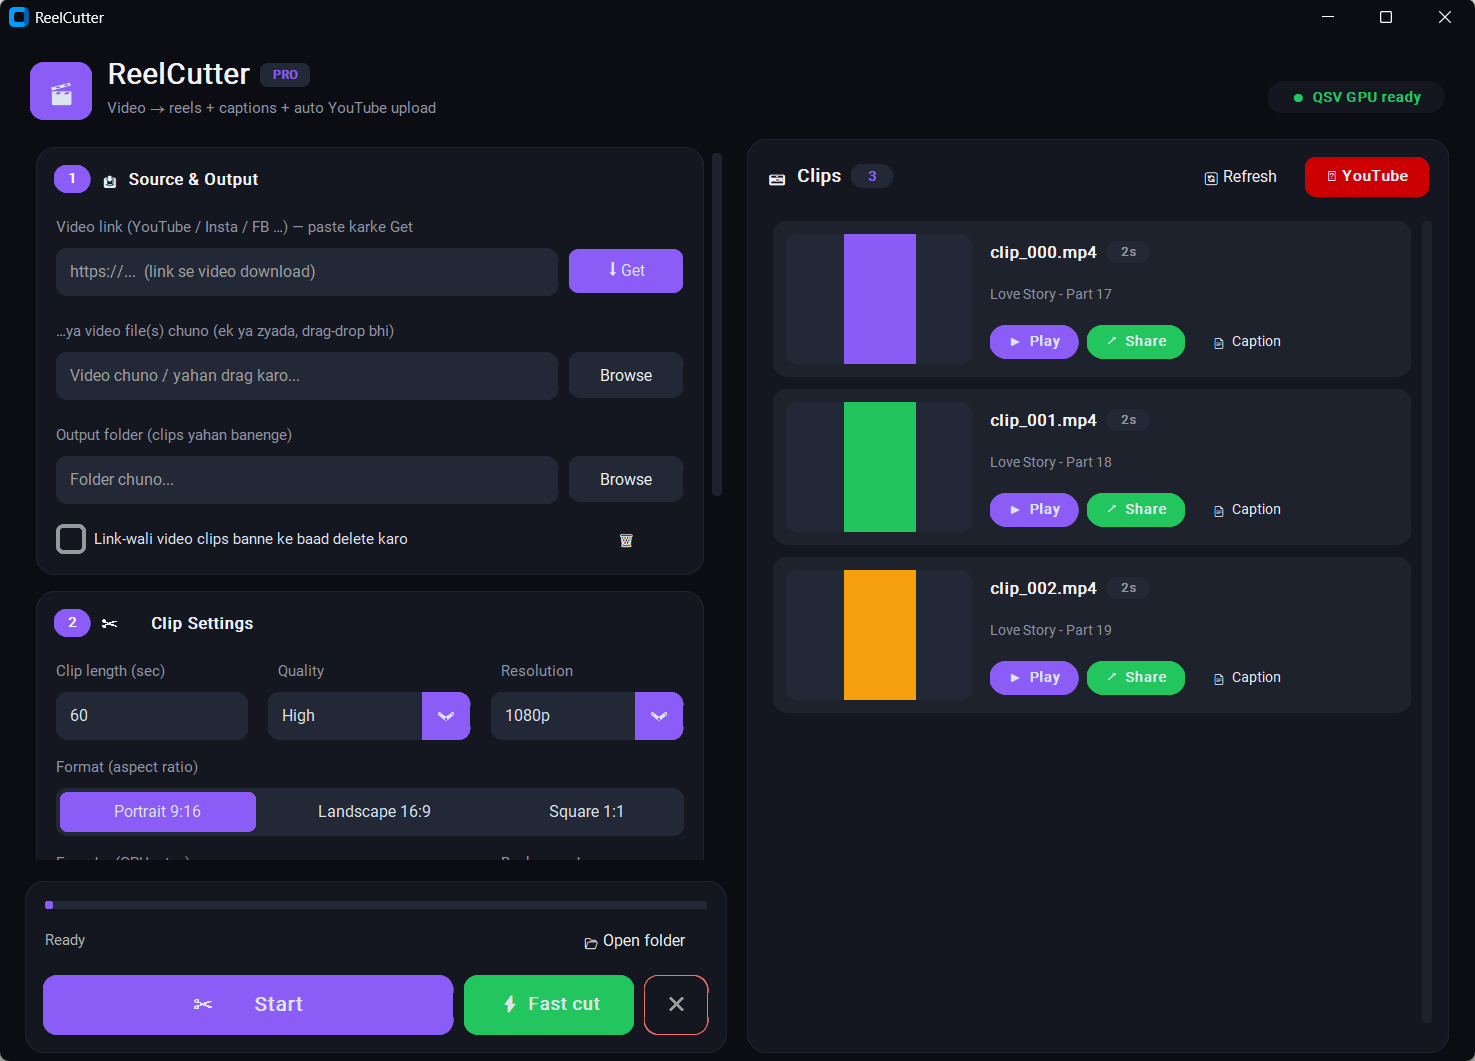
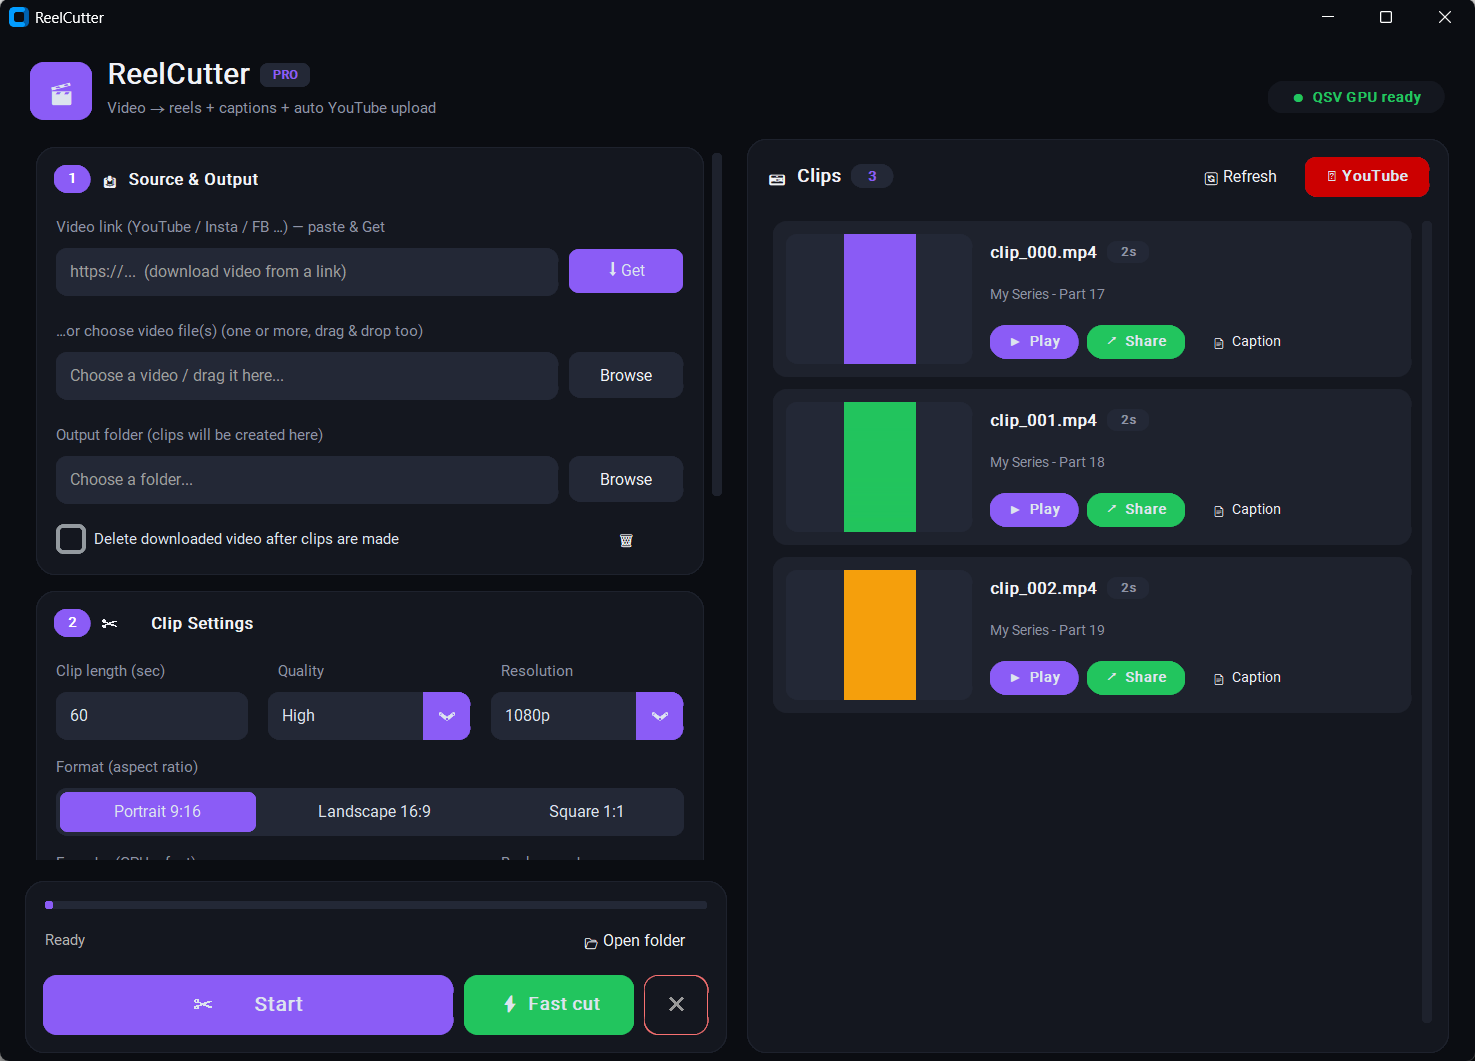
Full English UI: app rebuild + website rewrite

diff --git a/index.html b/index.html
@@ -1,10 +1,10 @@
 <!DOCTYPE html>
-<html lang="hi">
+<html lang="en">
 <head>
 <meta charset="UTF-8">
 <meta name="viewport" content="width=device-width, initial-scale=1.0">
-<title>ReelCutter — Lambi video se ready Reels & Shorts, ek click me</title>
-<meta name="description" content="ReelCutter: lambi video ko auto 9:16 Reels/Shorts me kaato, captions + Part numbering + logo watermark lagao, aur seedha YouTube pe schedule karo. Free Windows app.">
+<title>ReelCutter — Turn long videos into ready Reels & Shorts, in one click</title>
+<meta name="description" content="ReelCutter: automatically cut long videos into 9:16 Reels/Shorts, add captions + Part numbering + logo watermark, and schedule them straight to YouTube. Free Windows app.">
 <link rel="icon" type="image/png" href="assets/logo.png">
 <style>
   :root{
@@ -37,7 +37,7 @@
   .hero img.logo{width:84px;height:84px;border-radius:20px;margin-bottom:22px;box-shadow:0 12px 40px rgba(139,92,246,.35)}
   h1{font-size:clamp(1.9rem,4.5vw,3.1rem);line-height:1.2;font-weight:800}
   h1 span{color:var(--accent)}
-  .sub{color:var(--muted);font-size:1.1rem;max-width:640px;margin:18px auto 30px}
+  .sub{color:var(--muted);font-size:1.1rem;max-width:660px;margin:18px auto 30px}
   .dl-row{display:flex;gap:14px;justify-content:center;flex-wrap:wrap;margin-bottom:12px}
   .meta{color:var(--muted);font-size:.85rem}
   .meta b{color:var(--green)}
@@ -94,7 +94,7 @@
     <div class="brand">ReelCutter<small>PRO</small></div>
     <div class="nav-links">
       <a href="#features" class="hideS">Features</a>
-      <a href="#how" class="hideS">Kaise use karein</a>
+      <a href="#how" class="hideS">How it works</a>
       <a href="#req" class="hideS">Requirements</a>
       <a href="#faq" class="hideS">FAQ</a>
       <a href="#download" class="btn">⬇ Download</a>
@@ -104,42 +104,42 @@
 
 <header class="hero wrap">
   <img class="logo" src="assets/logo.png" alt="ReelCutter">
-  <h1>Lambi video se <span>ready Reels & Shorts</span><br>— ek click me</h1>
-  <p class="sub">Video ya link daalo → auto 9:16 clips + captions + "Part 1, 2, 3…" series numbering + logo watermark → aur seedha <b style="color:var(--text)">YouTube Shorts pe schedule</b>. Sab kuch ek hi app me.</p>
+  <h1>Turn long videos into <span>ready Reels & Shorts</span><br>— in one click</h1>
+  <p class="sub">Drop a video or paste a link → get auto-cut 9:16 clips with captions, "Part 1, 2, 3…" series numbering and your logo watermark → then <b style="color:var(--text)">schedule them straight to YouTube Shorts</b>. All in one app.</p>
   <div class="dl-row">
     <a class="btn big" href="ReelCutter_Setup.exe" download>⬇ Download Setup &nbsp;·&nbsp; 60 MB</a>
     <a class="btn big ghost" href="ReelCutter.exe" download>Portable .exe</a>
   </div>
-  <p class="meta">Windows 10/11 (64-bit) &nbsp;•&nbsp; <b>100% Free</b> &nbsp;•&nbsp; koi account nahi chahiye</p>
-  <div class="shot"><img src="assets/screenshot.png" alt="ReelCutter app screenshot — clips gallery aur settings"></div>
+  <p class="meta">Windows 10/11 (64-bit) &nbsp;•&nbsp; <b>100% Free</b> &nbsp;•&nbsp; no account needed</p>
+  <div class="shot"><img src="assets/screenshot.png" alt="ReelCutter app screenshot — clips gallery and settings"></div>
 </header>
 
 <section id="features">
   <div class="wrap">
-    <h2>Sab kuch jo ek reel-factory ko chahiye 🏭</h2>
-    <p class="sec-sub">Kaatne se le kar upload tak — pura pipeline automatic.</p>
+    <h2>Everything a reel factory needs 🏭</h2>
+    <p class="sec-sub">From cutting to uploading — the whole pipeline, automated.</p>
     <div class="grid">
-      <div class="card"><div class="ico">✂️</div><h3>Auto cutting</h3><p>Lambi video fixed-length clips me. 9:16, 16:9, 1:1 — blur/black/crop background ke saath.</p></div>
-      <div class="card"><div class="ico">🔢</div><h3>Part series numbering</h3><p>Har clip pe "Title Part 17, 18, 19…" auto. Pichla part number daalo, series wahi se continue.</p></div>
-      <div class="card"><div class="ico">📝</div><h3>Ready captions</h3><p>Har clip ka caption .txt — title + rotating CTA. Bas copy-paste karke post karo.</p></div>
-      <div class="card"><div class="ico">🏷️</div><h3>Logo watermark + text</h3><p>Apna logo aur custom text har clip pe — drag karke position, size % se adjust.</p></div>
-      <div class="card"><div class="ico">⚡</div><h3>GPU speed + Fast cut</h3><p>NVIDIA/Intel/AMD hardware encoding auto-detect. Fast-cut mode me seconds me clips.</p></div>
-      <div class="card"><div class="ico">🔗</div><h3>Link se video</h3><p>YouTube/Insta/FB link paste karo — app khud download karke clips bana degi.</p></div>
-      <div class="card"><div class="ico">📅</div><h3>YouTube auto-upload</h3><p>Saare clips ek click me YouTube Shorts pe — roz ek auto-publish hone wala schedule.</p></div>
-      <div class="card"><div class="ico">📱</div><h3>Phone pe share (QR)</h3><p>QR scan karo, clip phone pe — wahan se Instagram/WhatsApp pe native share.</p></div>
+      <div class="card"><div class="ico">✂️</div><h3>Auto cutting</h3><p>Slice long videos into fixed-length clips. 9:16, 16:9 or 1:1 with blur/black/crop backgrounds.</p></div>
+      <div class="card"><div class="ico">🔢</div><h3>Part series numbering</h3><p>"Title Part 17, 18, 19…" burned onto every clip automatically. Enter the last part number and the series continues.</p></div>
+      <div class="card"><div class="ico">📝</div><h3>Ready captions</h3><p>A caption .txt for every clip — title + rotating call-to-action. Just copy, paste and post.</p></div>
+      <div class="card"><div class="ico">🏷️</div><h3>Logo watermark + text</h3><p>Your logo and custom text on every clip — drag to position, resize by %.</p></div>
+      <div class="card"><div class="ico">⚡</div><h3>GPU speed + Fast cut</h3><p>Auto-detects NVIDIA/Intel/AMD hardware encoding. Fast-cut mode slices in seconds.</p></div>
+      <div class="card"><div class="ico">🔗</div><h3>Cut from a link</h3><p>Paste a YouTube/Insta/FB link — the app downloads the video and cuts it for you.</p></div>
+      <div class="card"><div class="ico">📅</div><h3>YouTube auto-upload</h3><p>Push all clips to YouTube Shorts in one click — scheduled to publish one per day.</p></div>
+      <div class="card"><div class="ico">📱</div><h3>Share to phone (QR)</h3><p>Scan a QR, the clip lands on your phone — share natively to Instagram/WhatsApp.</p></div>
     </div>
   </div>
 </section>
 
 <section id="how">
   <div class="wrap">
-    <h2>4 steps — bas itna hi</h2>
-    <p class="sec-sub">Pehli baar setup ke baad rozana sirf 1 minute ka kaam.</p>
+    <h2>4 steps — that's it</h2>
+    <p class="sec-sub">After a one-time setup, it's a one-minute job every day.</p>
     <div class="steps">
-      <div class="step"><h3>Install karo</h3><p>Setup download karke Next-Next-Install. Desktop shortcut ban jayega.</p></div>
-      <div class="step"><h3>ffmpeg daalo</h3><p>ffmpeg.exe + ffprobe.exe ReelCutter ke install folder me copy kar do (neeche link hai). Ek hi baar.</p></div>
-      <div class="step"><h3>Video/link + Start</h3><p>Video chuno ya link paste karo, title likho, Start dabao — clips + captions ready.</p></div>
-      <div class="step"><h3>Upload/Share</h3><p>⬆ YouTube se schedule karo, ya QR se phone pe le ke Insta pe daalo. Done!</p></div>
+      <div class="step"><h3>Install</h3><p>Download the setup and click Next-Next-Install. A desktop shortcut appears.</p></div>
+      <div class="step"><h3>Add ffmpeg</h3><p>Copy ffmpeg.exe + ffprobe.exe into the ReelCutter install folder (link below). One time only.</p></div>
+      <div class="step"><h3>Pick a video & Start</h3><p>Choose a video or paste a link, type a title, press Start — clips + captions are ready.</p></div>
+      <div class="step"><h3>Upload / Share</h3><p>Schedule everything to YouTube with ⬆, or send clips to your phone via QR. Done!</p></div>
     </div>
   </div>
 </section>
@@ -147,13 +147,13 @@
 <section id="req">
   <div class="wrap">
     <h2>Requirements</h2>
-    <p class="sec-sub">Seedha-saadha — bas ek cheez chahiye.</p>
+    <p class="sec-sub">Simple — only one thing is mandatory.</p>
     <div class="box">
       <ul>
-        <li><b>Windows 10/11</b> (64-bit) <span class="tag">ZAROORI</span></li>
-        <li><b>ffmpeg</b> — <a href="https://www.gyan.dev/ffmpeg/builds/" target="_blank" rel="noopener">yahan se download</a> karke <code>ffmpeg.exe</code> + <code>ffprobe.exe</code> install folder me daal do:<br><code style="color:var(--accent)">C:\Users\&lt;naam&gt;\AppData\Local\Programs\ReelCutter</code> <span class="tag">ZAROORI</span></li>
-        <li><b>yt-dlp</b> — <a href="https://github.com/yt-dlp/yt-dlp/releases/latest" target="_blank" rel="noopener">yt-dlp.exe</a> usi folder me — sirf "link se video" feature ke liye <span class="tag opt">OPTIONAL</span></li>
-        <li><b>Google setup</b> — sirf YouTube auto-upload ke liye (app me instructions hain) <span class="tag opt">OPTIONAL</span></li>
+        <li><b>Windows 10/11</b> (64-bit) <span class="tag">REQUIRED</span></li>
+        <li><b>ffmpeg</b> — <a href="https://www.gyan.dev/ffmpeg/builds/" target="_blank" rel="noopener">download here</a>, then copy <code>ffmpeg.exe</code> + <code>ffprobe.exe</code> into the install folder:<br><code style="color:var(--accent)">C:\Users\&lt;name&gt;\AppData\Local\Programs\ReelCutter</code> <span class="tag">REQUIRED</span></li>
+        <li><b>yt-dlp</b> — put <a href="https://github.com/yt-dlp/yt-dlp/releases/latest" target="_blank" rel="noopener">yt-dlp.exe</a> in the same folder — only needed for the "cut from a link" feature <span class="tag opt">OPTIONAL</span></li>
+        <li><b>Google setup</b> — only for YouTube auto-upload (instructions inside the app) <span class="tag opt">OPTIONAL</span></li>
       </ul>
     </div>
   </div>
@@ -162,26 +162,26 @@
 <section id="faq">
   <div class="wrap">
     <h2>FAQ</h2>
-    <p class="sec-sub">Jo sawal sabse zyada aate hain.</p>
+    <p class="sec-sub">The questions everyone asks.</p>
     <details>
-      <summary>Windows "protected your PC" warning dikha raha hai?</summary>
-      <p>Ye har naye independent software ke saath hota hai (app abhi code-signed nahi hai). <b>More info → Run anyway</b> dabao. App 100% safe hai — koi data collect nahi hota, sab kuch tumhare PC pe hi rehta hai.</p>
+      <summary>Windows says "protected your PC"?</summary>
+      <p>That happens with every new independent app (it isn't code-signed yet). Click <b>More info → Run anyway</b>. The app is 100% safe — it collects nothing; everything stays on your PC.</p>
     </details>
     <details>
-      <summary>Kya ye sach me free hai?</summary>
-      <p>Haan, bilkul free. Koi account, koi subscription, koi watermark-on-output nahi (sirf tumhara apna logo, agar lagao to 😄).</p>
+      <summary>Is it really free?</summary>
+      <p>Yes, completely free. No account, no subscription, and no watermark forced on your output (only your own logo, if you add one 😄).</p>
     </details>
     <details>
-      <summary>YouTube pe roz kitne upload ho sakte hain?</summary>
-      <p>Google ka default quota ~6 upload/din ka hai. App schedule mode me clips ko private upload karke roz ek publish karta hai — quota ki tension nahi.</p>
+      <summary>How many YouTube uploads per day?</summary>
+      <p>Google's default quota allows ~6 uploads/day. In schedule mode the app uploads clips as private and YouTube publishes one per day automatically — so the quota is rarely a problem.</p>
     </details>
     <details>
-      <summary>Setup vs Portable — kaunsa loon?</summary>
-      <p><b>Setup</b> normal use ke liye best (shortcuts + uninstaller). <b>Portable</b> bina install ke chalta hai — pen-drive me bhi.</p>
+      <summary>Setup vs Portable — which one?</summary>
+      <p><b>Setup</b> is best for normal use (shortcuts + uninstaller). <b>Portable</b> runs without installing — even from a USB stick.</p>
     </details>
     <details>
-      <summary>Mera data/account safe hai?</summary>
-      <p>Haan. App kuch bhi upload/collect nahi karta. YouTube login ka token sirf tumhare PC pe (<code>~/.reelcutter_yt_token.json</code>) save hota hai. Source code app ke andar sealed hai — koi modify nahi kar sakta.</p>
+      <summary>Is my data/account safe?</summary>
+      <p>Yes. The app uploads/collects nothing on its own. Your YouTube login token is stored only on your PC (<code>~/.reelcutter_yt_token.json</code>). The source code is sealed inside the app — nobody can modify it.</p>
     </details>
   </div>
 </section>
@@ -189,8 +189,8 @@
 <section id="download">
   <div class="wrap">
     <div class="band">
-      <h2>Shuru karo — abhi 🚀</h2>
-      <p class="sec-sub" style="margin-bottom:26px">Ek video daalo, baaki ReelCutter sambhal lega.</p>
+      <h2>Get started — right now 🚀</h2>
+      <p class="sec-sub" style="margin-bottom:26px">Drop in one video — ReelCutter handles the rest.</p>
       <div class="dl-row">
         <a class="btn big" href="ReelCutter_Setup.exe" download>⬇ Download ReelCutter Setup</a>
         <a class="btn big ghost" href="ReelCutter.exe" download>Portable version</a>
@@ -202,7 +202,7 @@
 
 <footer>
   <div class="wrap">
-    ReelCutter © <span id="yr">2026</span> — Made with <span class="heart">❤</span> by Vikku &nbsp;•&nbsp; Creators ke liye, creator ke dwara
+    ReelCutter © <span id="yr">2026</span> — Made with <span class="heart">❤</span> by Vikku &nbsp;•&nbsp; For creators, by a creator
   </div>
 </footer>
 